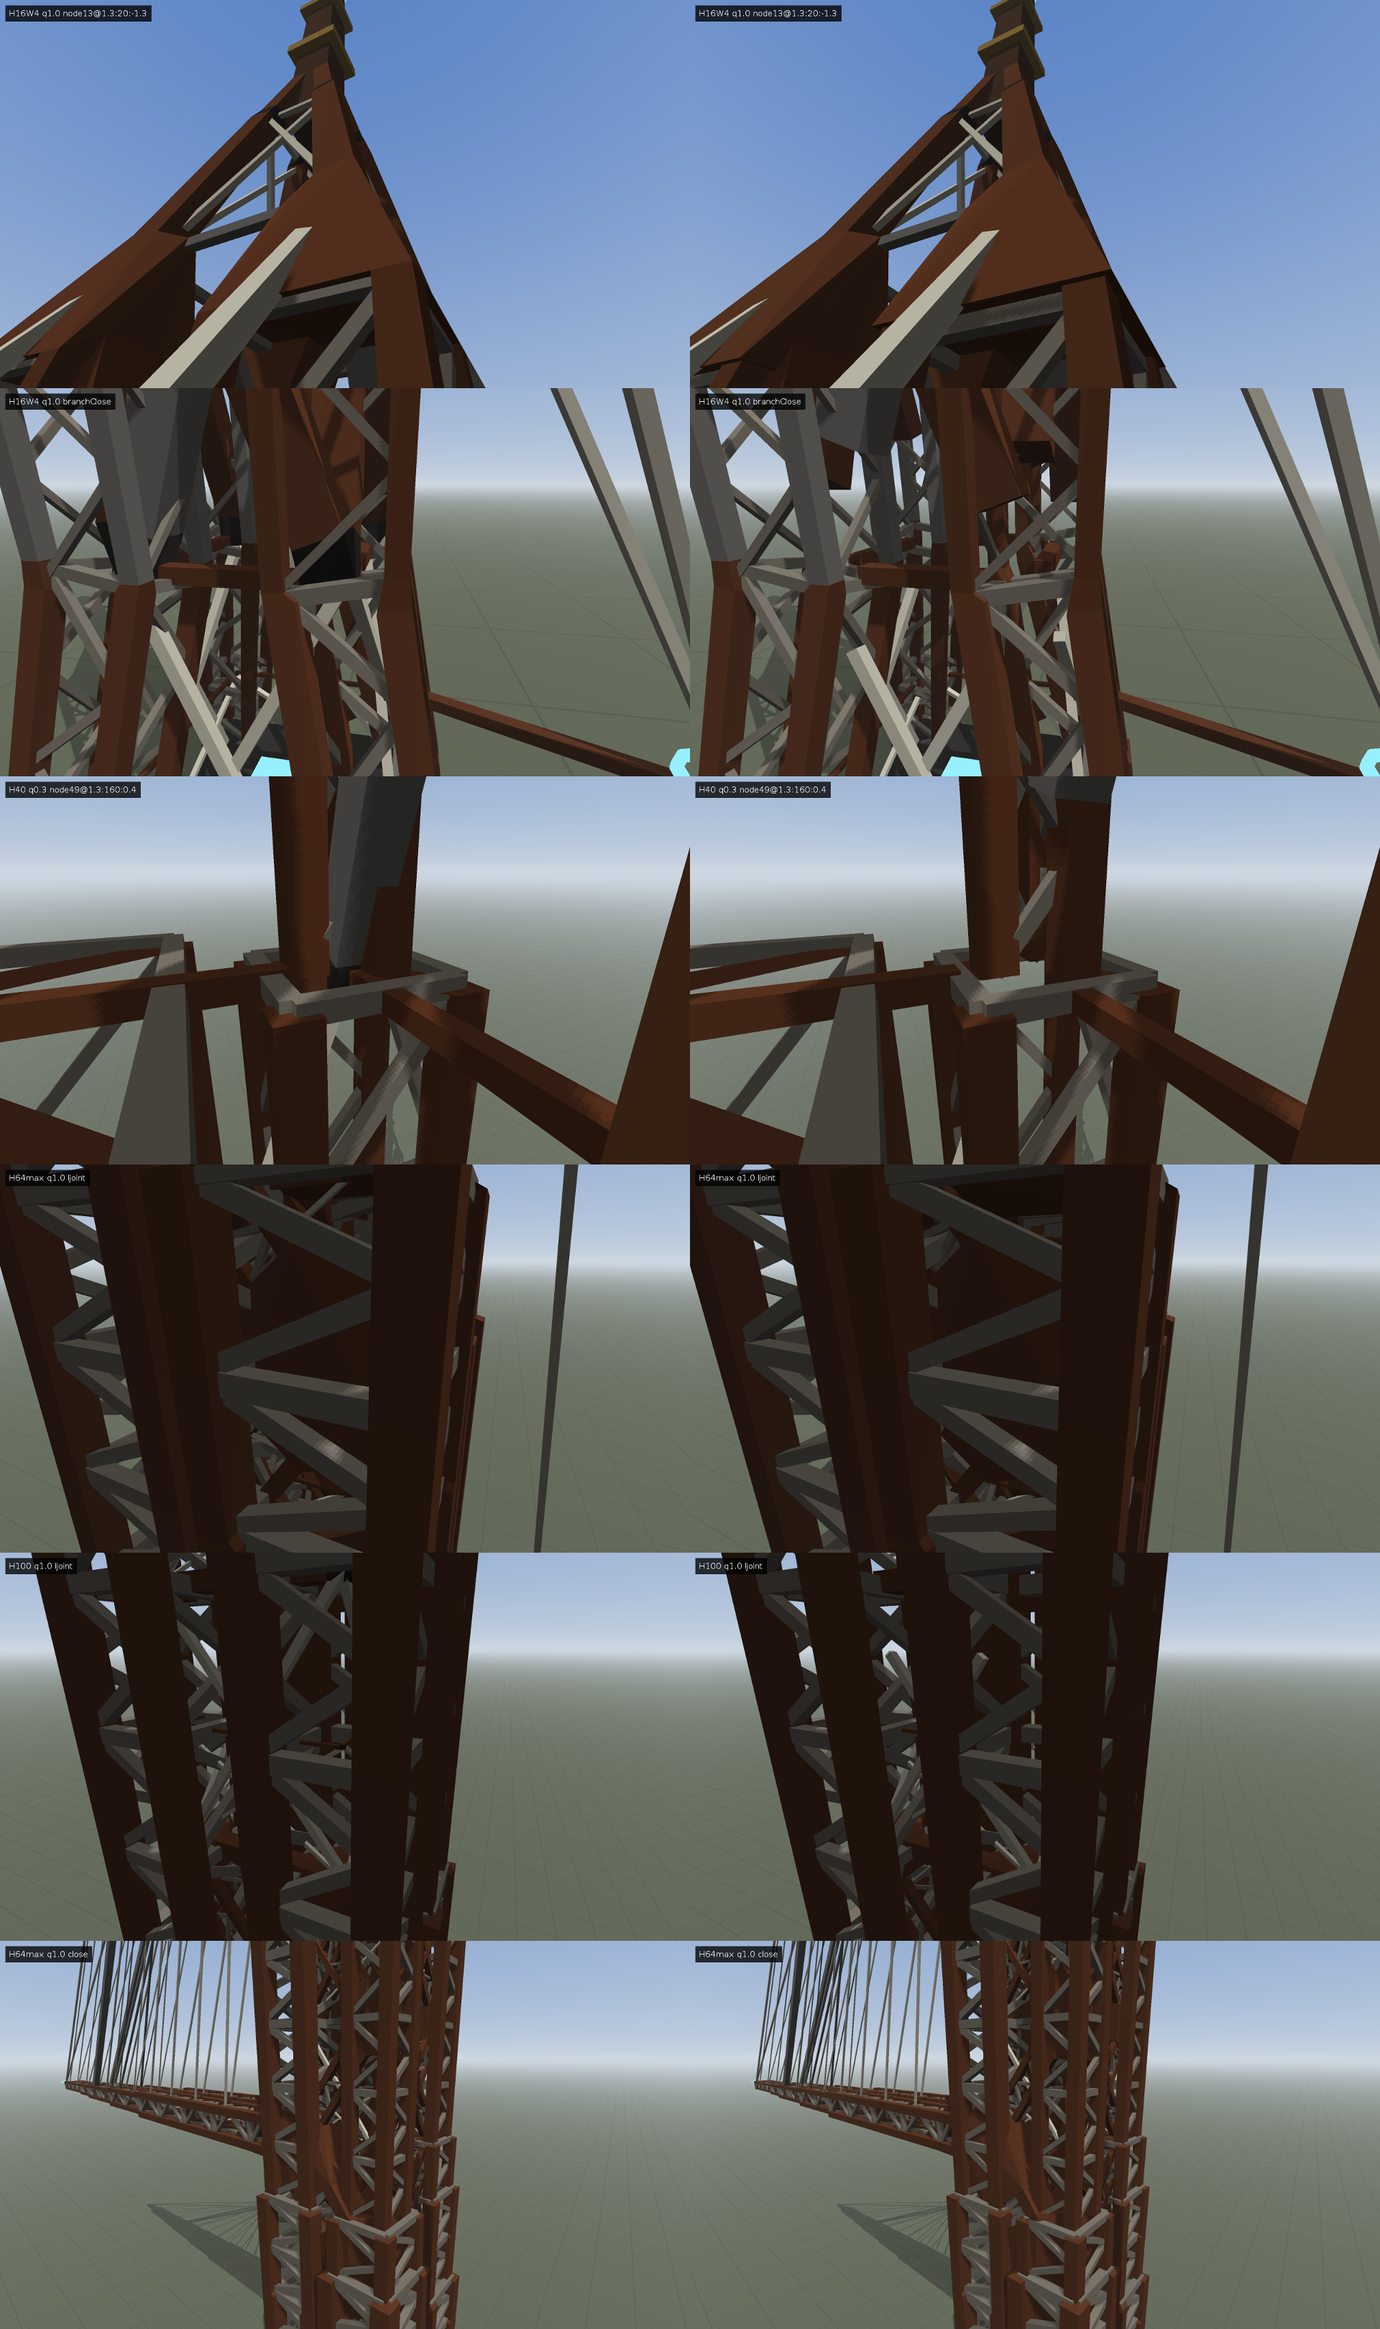
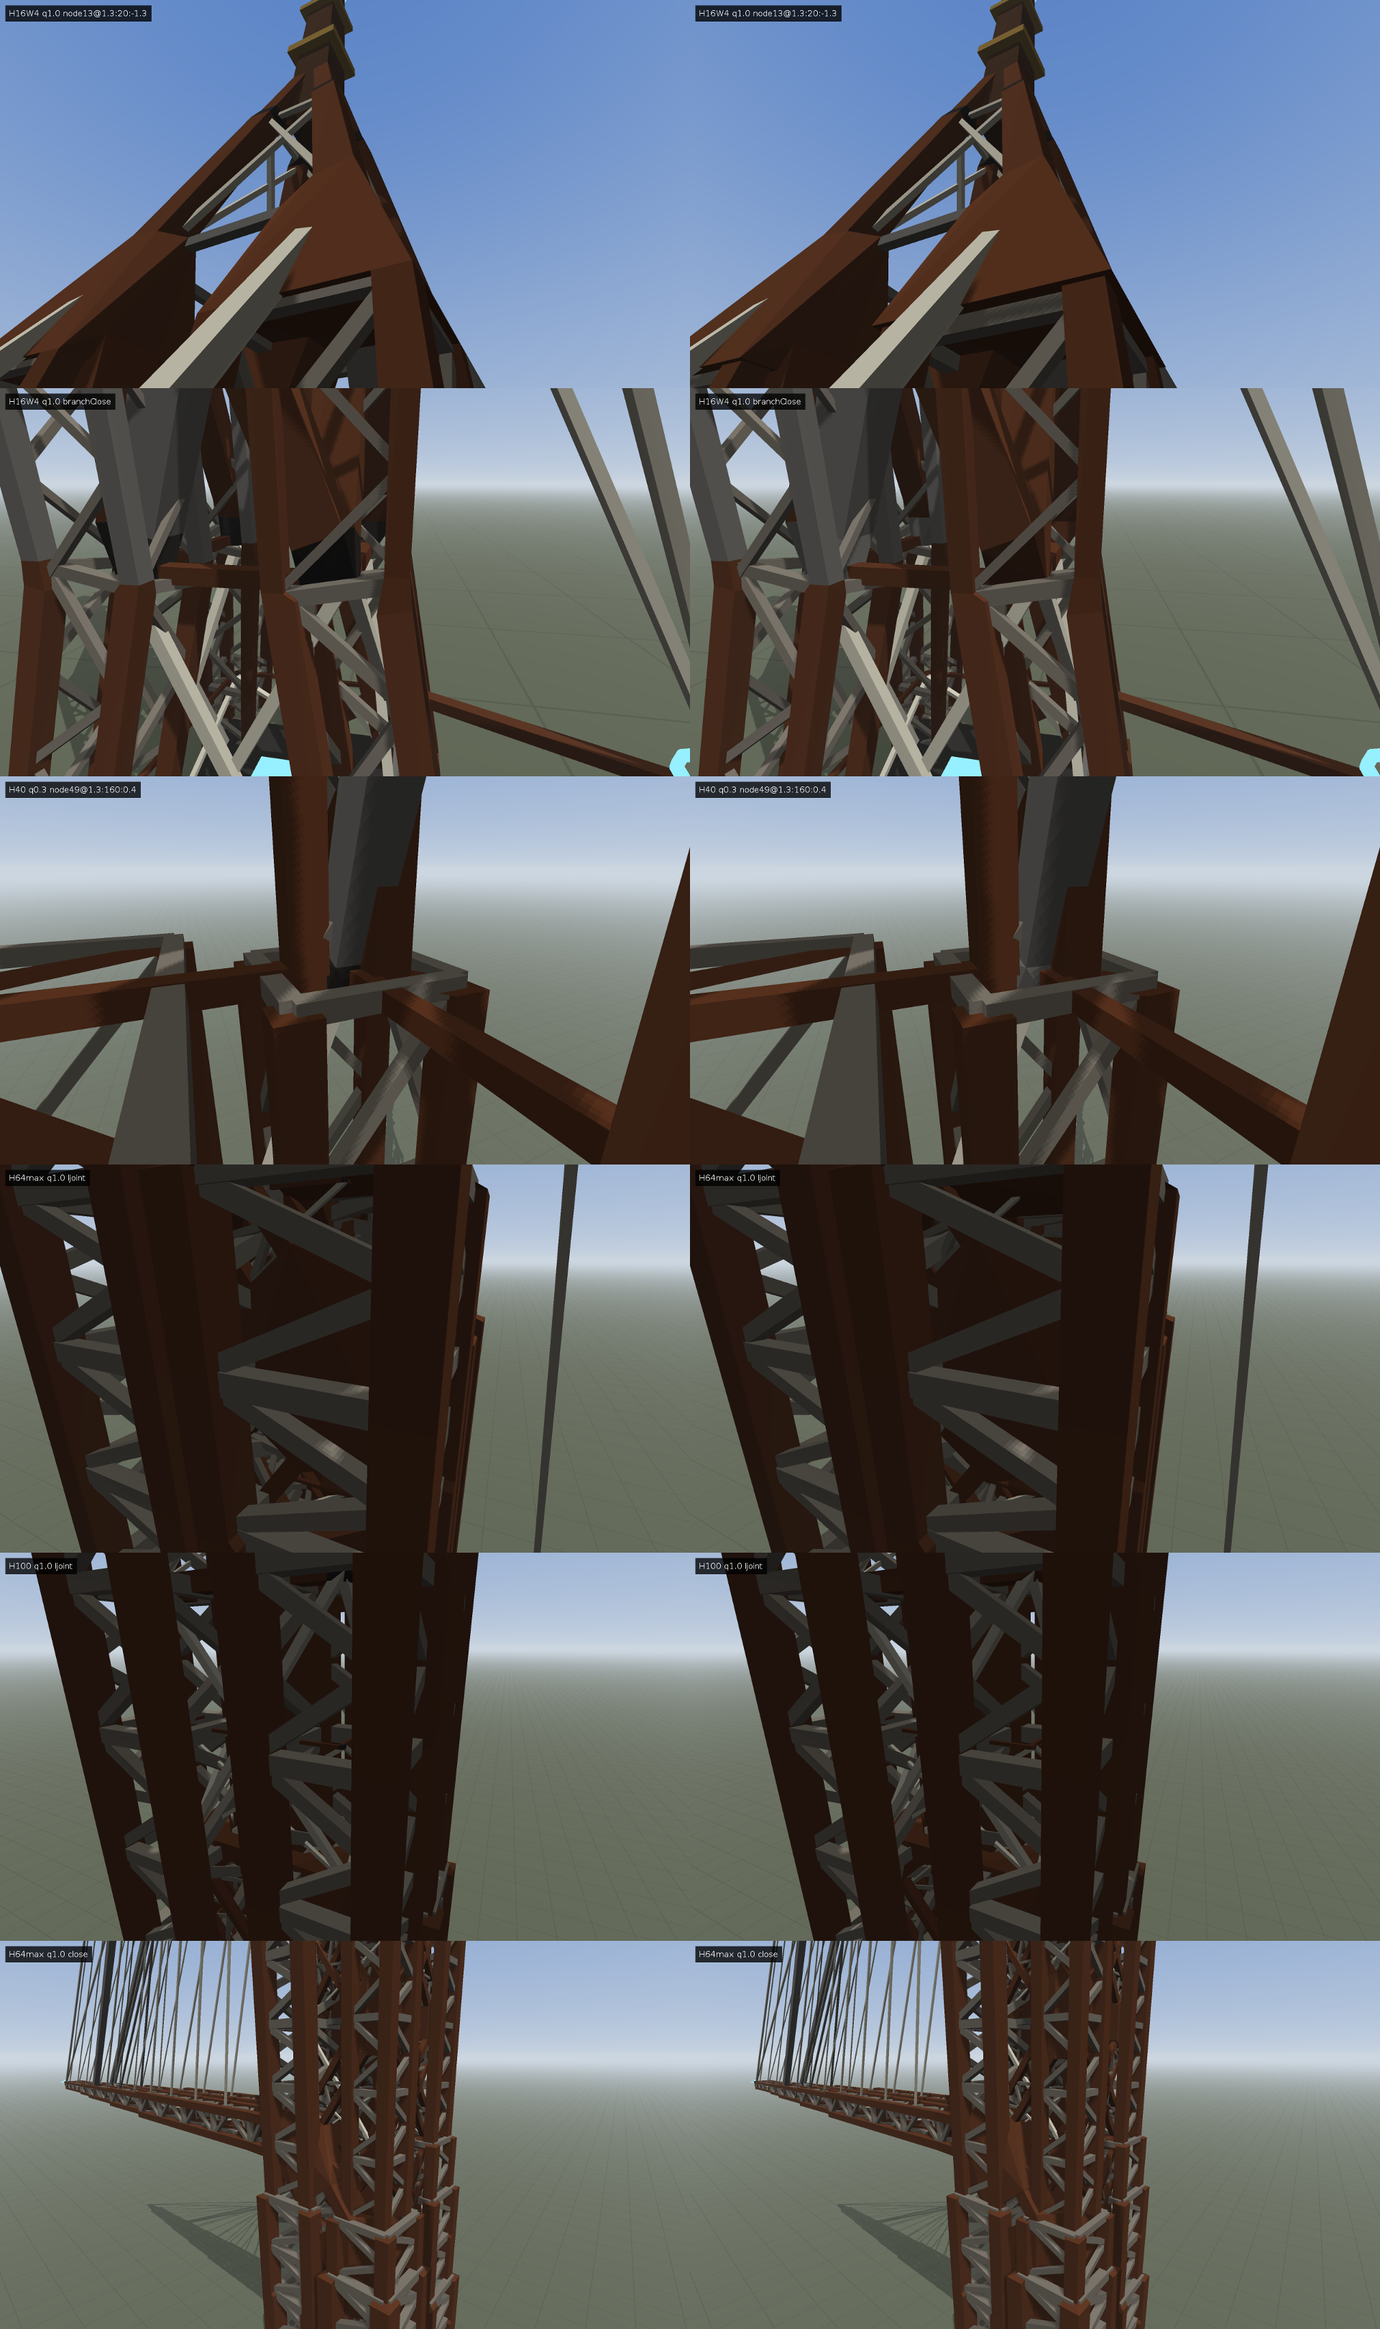
Tower mesh: revert brace stubs inside laced legs (braces ended in mid-air); recolour those hubs instead
Cutting braces at a continuing laced leg's lacing planes left wide / shallow braces visibly detached (H16 W4
branchClose, H40 q0.3 node 49). Braces run to the node hub again; the hub of a node inside a continuing laced leg
takes its widest member's part instead of the dark knuckle colour. Contact sheet, NOTES and polish.md updated.

diff --git a/towergen/src/main/java/org/erisia/stasis/towergen/MeshBuilder.java b/towergen/src/main/java/org/erisia/stasis/towergen/MeshBuilder.java
@@ -27,8 +27,8 @@ import org.erisia.stasis.towergen.VisualParams.Part;
  * end outside). Laced chords at a free end are ordinary members of the node joint; where a laced member continues
  * into another (along a leg) each chord pair gets a two-member hull joint (flush when collinear). A laced member ending
  * at a branch joins its node's hull by its envelope (a gusset, gussetLip wider than its chords); its chords' open ends
- * sink into the gusset (chordSink) and its end batten stands just off the gusset face. Solid braces ending at a node
- * inside a continuing laced leg stop at the leg's lacing planes, capped, with no hub (legBraces). Members that cross
+ * sink into the gusset (chordSink) and its end batten stands just off the gusset face. Brace hubs inside a continuing
+ * laced leg take the widest brace's part (not the dark knuckle colour). Members that cross
  * without sharing a node (X-braces, crossing cables) are pushed apart along the common normal so no faces are
  * coplanar (no z-fighting).
  */
@@ -60,7 +60,6 @@ public final class MeshBuilder {
         double[][] pl, vt;     // prism planes / vertices (clearance), computed on demand
         boolean envelope;      // a laced member's outer section (not drawn; its chords are cut at e)
         double vis = -1;       // chord ends at a gusset: the visible cut (the gusset face; e is sunk below it)
-        boolean stub;          // a brace ending inside a laced leg: drawn from e, capped (no hub)
 
         End(double[] p, double[] d, double[] sd, double a, double len, boolean cable, Part part) {
             this.p = p; this.d = d; this.sd = sd; this.a = a; this.len = len; this.cable = cable; this.part = part;
@@ -76,6 +75,7 @@ public final class MeshBuilder {
         Hull3 hull;
         Part part;
         JointInfo info;                                     // tests
+        boolean inLeg;                                      // a node inside a continuing laced leg
 
         void add(End e) { ends.add(e); }
     }
@@ -364,17 +364,11 @@ public final class MeshBuilder {
         }
         for (int nd = 0; nd < n; nd++) {
             if (nodeHub[nd] == null) continue;
-            // braces inside a laced leg: where a laced member continues through the node (chord splices) and only
-            // narrower solid members / cables end there, their hub would float in the leg's hollow (a dark block seen
-            // through the lacing); they stop inside the leg instead, capped (legBraces)
-            List<double[]> legs = new ArrayList<>();
-            double legB = 1e300;
-            for (int b : at.get(nd)) {
-                if (type[b] != LACED) continue;
-                int e = t.bi[b] == nd ? 0 : 1;
-                if (cont[2 * b + e] >= 0) { legs.addAll(legPlanes(lg[b], node(P, nd))); legB = Math.min(legB, lg[b].b); }
-            }
-            if (!legBraces(nodeHub[nd], legs, legB)) solve(nodeHub[nd], sink);
+            // a brace hub inside a continuing laced leg (chord splices through the node) sits in the leg's hollow,
+            // seen through the lacing: drawn in its widest member's part, not as a dark knuckle block
+            for (int b : at.get(nd))
+                if (type[b] == LACED && cont[2 * b + (t.bi[b] == nd ? 0 : 1)] >= 0) nodeHub[nd].inLeg = true;
+            solve(nodeHub[nd], sink);
         }
         for (Joint hb : chordHubs) { solve(hb, sink); hb.part = hb.ends.get(0).part; }   // chord splices: a piece of chord
         // chords run straight to their envelope's cut (the gusset face), and their open ends sink into the gusset by
@@ -431,7 +425,7 @@ public final class MeshBuilder {
                 continue;
             }
             End e0 = mEnd[2 * b], e1 = mEnd[2 * b + 1];
-            double t0 = e0.sealed || e0.stub ? e0.e : 0, t1 = e1.sealed || e1.stub ? e1.e : 0;
+            double t0 = e0.sealed ? e0.e : 0, t1 = e1.sealed ? e1.e : 0;
             if (len[b] - t0 - t1 < 1e-6) continue;
             double[] p0 = V.add(e0.p, V.mul(ax[b], t0)), p1 = V.sub(e1.p, V.mul(ax[b], t1));
             mesh.beam(p0, p1, dw[b], dw[b], part[b], !e0.sealed, !e1.sealed);
@@ -675,7 +669,7 @@ public final class MeshBuilder {
         boolean gusset = false;
         for (End en : core) gusset |= en.envelope;
         // hubs holding laced members are gusset blocks in the widest member's part
-        jt.part = vp.jointMemberColour() || through || gusset ? w.part : Part.KNUCKLE;
+        jt.part = vp.jointMemberColour() || through || gusset || jt.inLeg ? w.part : Part.KNUCKLE;
         if (sink != null) {
             JointInfo ji = new JointInfo();
             ji.hull = h;
@@ -761,68 +755,6 @@ public final class MeshBuilder {
             for (int k = 0; k < 3; k++) { off[j][k] += push * dw[i] * nrm[k]; off[i][k] -= push * dw[j] * nrm[k]; }
         }
         return off;
-    }
-
-    /** Cosine of the smallest angle between a brace and the laced leg for {@link #legBraces} (10 degrees). */
-    static final double LEG_BRACE_COS = 0.985;
-
-    /**
-     * The lacing planes of laced member g's section around node c, as half-spaces n . x <= r (rows nx ny nz r, the
-     * last row the member's unit axis, flagged by r = NaN): one per face, through the chord centres.
-     */
-    private static List<double[]> legPlanes(Laced g, double[] c) {
-        List<double[]> out = new ArrayList<>();
-        for (int k = 0; k < g.nc; k++) {
-            double[] nn = V.unit(V.add(g.dir[k], g.dir[(k + 1) % g.nc]));
-            out.add(new double[]{nn[0], nn[1], nn[2], V.dot(nn, c) + g.h * V.dot(g.dir[k], nn)});
-        }
-        double[] a = V.mul(g.dv, 1 / g.L);
-        out.add(new double[]{a[0], a[1], a[2], Double.NaN});
-        return out;
-    }
-
-    /**
-     * Brace ends at a node inside a continuing laced leg (legs: the lacing half-spaces of the spliced members there,
-     * {@link #legPlanes}; legB the narrowest one's outer width): if every end of the joint is a solid member narrower
-     * than the leg or a cable, its whole section starts inside the leg's lacing planes (crossing offset included) and
-     * it leaves the leg at more than 10 degrees to its axis, each is cut where its section first reaches a lacing
-     * plane (its end face stays inside the leg) and capped there, and the joint gets no hub. Otherwise (laced ends,
-     * members wider than the leg's hollow, near-parallel members) false: the ordinary hull joint.
-     */
-    private boolean legBraces(Joint jt, List<double[]> legs, double legB) {
-        if (legs.isEmpty()) return false;
-        double maxF = Math.max(0, Math.min(0.49, vp.jointMaxSetbackFrac()));
-        double[] cut = new double[jt.ends.size()];
-        for (int i = 0; i < jt.ends.size(); i++) {
-            End en = jt.ends.get(i);
-            if (en.envelope) return false;
-            double sf = 1e300;
-            for (int k = 0; k < 4; k++) {
-                double[] x0 = corner(en, 0, k);
-                double best = 0;                  // the leaving parameter, over the leg members (union)
-                double lo = 1e300;                // within one member: the first plane reached
-                boolean inside = true;
-                for (double[] h : legs) {
-                    if (Double.isNaN(h[3])) {     // end of one member's planes: its axis
-                        if (Math.abs(V.dot(en.d, h)) > LEG_BRACE_COS) return false;
-                        if (inside) best = Math.max(best, lo);
-                        lo = 1e300;
-                        inside = true;
-                        continue;
-                    }
-                    double d0 = h[0] * x0[0] + h[1] * x0[1] + h[2] * x0[2] - h[3], d1 = V.dot(en.d, h);
-                    if (d0 > -1e-9) inside = false;
-                    else if (d1 > 1e-12) lo = Math.min(lo, -d0 / d1);
-                }
-                if (best <= 1e-9 || best >= 1e299) return false;
-                sf = Math.min(sf, best);
-            }
-            if (!en.cable && 2 * en.a >= legB) return false;
-            if (sf > maxF * en.len) return false;
-            cut[i] = sf;
-        }
-        for (int i = 0; i < jt.ends.size(); i++) { End en = jt.ends.get(i); en.e = cut[i]; en.stub = true; }
-        return true;
     }
 
     /** Continuing laced members: the bend between them below 30 degrees (leg kinks at the base flare included). */

diff --git a/towergen/NOTES.md b/towergen/NOTES.md
@@ -134,16 +134,13 @@ Known limits:
   and the lacing start just off the gusset (batten centre 0.35 x its width past the face where the last chord edge
   leaves the hull: sunk 0.15 x, no face coplanar with the gusset's). Splice ends are unchanged.
 - Brace hubs inside laced legs (small dark knuckle blocks seen through the lacing): at a node where a laced leg
-  continues (chord splices) and every other end there is a solid member narrower than the leg or a cable, whose
-  section starts inside the leg's lacing planes and leaves at more than 10 degrees to its axis (`legBraces`), there
-  is no hub: each member is cut where its section first reaches a lacing plane (the end face stays inside the leg)
-  and capped. Other leg nodes (laced bracing: envelope joints; members wider than a 3-chord leg's hollow;
-  near-parallel members) keep the hull joint. Hulls q1: H24b 172 -> 142, H40 235 -> 191, H40r3 351 -> 323, H40b4
-  333 -> 309, H64max 621 -> 573, H100 839 -> 699; triangles q1 0 to -3% (H100 67094 -> 65944). Cables ending at
-  such a node are cut at the lacing planes too. Slow random sweep (100 layouts x 2 q, seed 7): 57032 hulls, 0
-  failed, no exceptions.
+  continues (chord splices), the brace hub is drawn in its widest member's part (rust / steel) instead of
+  colKnuckle, so it reads as the braces meeting rather than a floating dark block. Geometry unchanged. A first
+  version cut the braces at the leg's lacing planes with no hub; reverted the same day: wide or shallow braces then
+  ended in mid-air (H16 W4 branchClose, H40 q0.3 node 49), i.e. visibly detached members.
+- Slow random sweep (100 layouts x 2 q, seed 7): no failures, no exceptions.
 - Known: where the hull covers a chord past 0.49 x its length (very short laced members), the end batten may sit
-  inside the hull (as before).
+  inside the hull (as before). Hubs of braces inside laced legs are still drawn (recoloured only).
 - Not changed: the 4 -> 3 chord step. Tried giving the end batten ring to the 3-chord member (the wider member's
   square ring is the step): small changes (0.77 -> 0.45) look cleaner, but large ones (1.92 -> 0.64, H40 q0.3 node
   52) leave the unmatched 4th chord as a lone post and the wide member's lacing ends poke out of its chord cuts, so
@@ -156,8 +153,8 @@ Known limits:
 - towerview shots: `branchClose` (the branch node from 2 blocks), `nodeN@DIST[:DEG[:UP]]` (close-up of node N at
   DIST blocks, DEG around from the outward radial, UP above; e.g. `node13@1.3:20:-1.3` looks up at H16 W4's gusset).
 - Renders: `renders/contact_gusset_sink.png` (1920 x 3240, before | after: H16 W4 q1 node 13 from below (gusset lip,
-  chords sunk, batten off the face), H16 W4 branchClose (brace hub gone), H40 q0.3 node 49 from inside, H64max and
-  H100 `ljoint` (braces no longer cross the leg's hollow), H64max `close`).
+  chords sunk, batten off the face), H16 W4 branchClose (brace hubs in member colour), H40 q0.3 node 49 from inside,
+  H64max and H100 `ljoint`, H64max `close`).
 
 ## Laced members at branch nodes: envelope (gusset) joints (2026-10-13, owner report 2)
 - Report: H16 W4@2 / W5@2, lower west leg: a laced member ending at a node (Y: the laced leg ends where a solid leg
@@ -254,7 +251,7 @@ Known limits:
   continue, nearest 0.3 H). Singles in renders/before_hull, renders/after_hull (git-ignored).
 - Known: the hull fills the crotch between members at small angles (a gusset look, bounded as above); near-parallel
   members beyond the setback cap overlap inside each other; hubs inside laced legs (bracing only) are still drawn
-  (2026-10-17: gone where the bracing is solid and narrower than the leg's hollow, see "Gusset seams").
+  (2026-10-17: drawn in the member colour instead of colKnuckle, see "Gusset seams").
 
 ## Mesh: watertight joints, crossing offsets (2026-10-13; the cube hubs, superseded by the hulls above)
 - Every node with >= 2 member ends gets a hub: a cube oriented like the widest member, half-size the smallest that
@@ -323,8 +320,7 @@ Library load 0.45 s. Mesh 0.1-3.5 ms. Python's whole pass took 0.27-0.31 s at H1
   refused even when short; hanging the lower boom from the upper one (or anchors between rings) would accept them.
 - LP-infeasible boom solves are not cached, so they are not in `boom_failed` (only repair-gave-up ones are).
 - Joint look: section changes on laced legs show as chord-width splice cubes; big hubs where a laced boom truss
-  tapers into a solid chord; hubs of braces sit inside laced legs (2026-10-17: only laced bracing and braces wider
-  than a 3-chord leg's hollow still do); hubs read as a dark band in colKnuckle on solid
+  tapers into a solid chord; hubs of braces sit inside laced legs (2026-10-17: in the member colour, no longer dark); hubs read as a dark band in colKnuckle on solid
   legs (`hubMemberColour` / colKnuckle tune it); ground hubs reach h below ground.
 - Meshes are heavy: H64max is ~110k triangles (lacing dominates). LOD (skip lacing at distance) is needed in the mod.
 - The library is 7.8 MB gz in the jar. `LibraryBin` (TGLB1, lossless, 2.0 MB gz, reads in 20 ms) exists for towerweb;

diff --git a/polish.md b/polish.md
@@ -5,8 +5,8 @@ Cosmetic leftovers to batch later. Add screenshots/layouts when you find more.
 ## Tower mesh (towergen MeshBuilder)
 - Where a laced leg goes from 4 to 3 chords, the wider member's end battens show as a step. (2026-10-17: tried the
   3-chord member's ring instead; worse at big width changes, kept; see towergen/NOTES.md "Gusset seams".)
-- Brace hubs inside laced legs: fixed 2026-10-17 for solid braces narrower than the leg's hollow (they now stop at
-  the lacing planes); laced bracing and braces wider than a 3-chord leg's hollow still form a hub there.
+- Brace hubs inside laced legs: since 2026-10-17 drawn in the member colour instead of dark knuckle; they are still
+  there (cutting the braces at the leg's faces left wide / shallow braces ending in mid-air, so that was reverted).
 - K nodes (two wide laced diagonals meeting a leg): the gusset fills the crotch, up to 0.64 blocks on H64's widest
   legs. Fine if it reads as a gusset plate; revisit if it looks heavy.
 - Nearly parallel members past the setback cap overlap inside each other.
